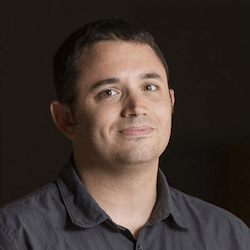
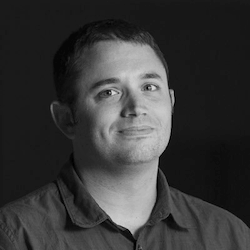
converted images to grey scale

Changed region(s): [[0.308, 0.14, 0.7, 0.896], [0.196, 0.392, 0.252, 0.504], [0.504, 0.896, 0.56, 0.952]]

diff --git a/index.html b/index.html
@@ -73,7 +73,7 @@
           <figure>
             <img
               class="float-left article-image"
-              src="./images/dp-1.jpg"
+              src="./images/dp-1.png"
               alt="article image"
             />
             <figcaption class="float-left">
@@ -110,7 +110,7 @@
           <figure>
             <img
               class="float-left article-image"
-              src="./images/dp-1.jpg"
+              src="./images/dp-2.png"
               alt="article image"
             />
             <figcaption class="float-left">
@@ -148,7 +148,7 @@
           <figure>
             <img
               class="float-left article-image"
-              src="./images/dp-1.jpg"
+              src="./images/dp-3.png"
               alt="article image"
             />
             <figcaption class="float-left">
@@ -185,7 +185,7 @@
           <figure>
             <img
               class="float-left article-image"
-              src="./images/dp-1.jpg"
+              src="./images/dp-4.png"
               alt="article image"
             />
             <figcaption class="float-left">
@@ -439,7 +439,7 @@
           <figure>
             <img
               class="float-left article-image"
-              src="./images/dp-1.jpg"
+              src="./images/dp-1.png"
               alt="article image"
             />
             <figcaption>Ariel Stiles <span>wrote</span></figcaption>
@@ -461,7 +461,7 @@
           <figure>
             <img
               class="float-left article-image"
-              src="./images/dp-1.jpg"
+              src="./images/dp-2.png"
               alt="article image"
             />
             <figcaption>Ariel Stiles <span>wrote</span></figcaption>
@@ -482,7 +482,7 @@
           <figure>
             <img
               class="float-left article-image"
-              src="./images/dp-1.jpg"
+              src="./images/dp-3.png"
               alt="article image"
             />
             <figcaption>Ariel Stiles <span>wrote</span></figcaption>
@@ -499,7 +499,27 @@
         </a>
       </article>
       <article class="community-article flex-half">
-        <a href="#" class="black-textAbortin
+        <a href="#" class="black-textAborting">
+            <figcaption>Ariel Stiles <span>wrote</span></figcaption>
+          </figure>
+          <div>
+            <h4>Overly Descriptive Color Palettes</h4>
+            <p>
+              april 6, 2020 — colors.lol is a fun way to discover interesting
+              color combinations. The palettes are hand-selected from a Twitter
+              bot and each color is matched with an adjective from a list of
+              over 20,000 words
+            </p>
+          </div>
+        </a>
+      </article>
+      <article class="community-article flex-half">
+        <a href="#" class="black-text">
+          <figure>
+            <img
+              class="float-left article-image"
+              src="./images/dp-2.png"
+              alt="article image"
             />
             <figcaption>Ariel Stiles <span>wrote</span></figcaption>
           </figure>
@@ -519,28 +539,7 @@
           <figure>
             <img
               class="float-left article-image"
-              src="./images/dp-1.jpg"
-              alt="article image"
-            />
-            <figcaption>Ariel Stiles <span>wrote</span></figcaption>
-          </figure>
-          <div>
-            <h4>Overly Descriptive Color Palettes</h4>
-            <p>
-              april 6, 2020 — colors.lol is a fun way to discover interesting
-              color combinations. The palettes are hand-selected from a Twitter
-              bot and each color is matched with an adjective from a list of
-              over 20,000 words
-            </p>
-          </div>
-        </a>
-      </article>
-      <article class="community-article flex-half">
-        <a href="#" class="black-text">
-          <figure>
-            <img
-              class="float-left article-image"
-              src="./images/dp-1.jpg"
+              src="./images/dp-3.png"
               alt="article image"
             />
             <figcaption>Ariel Stiles <span>wrote</span></figcaption>
